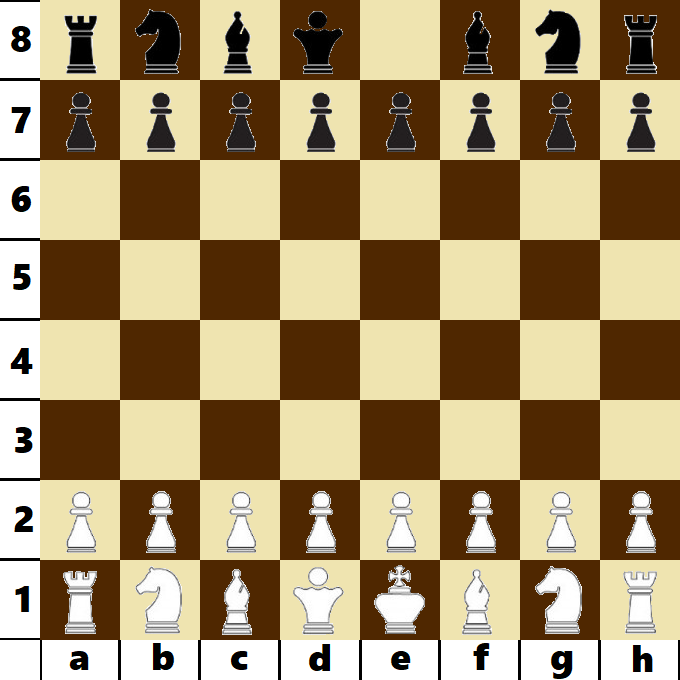
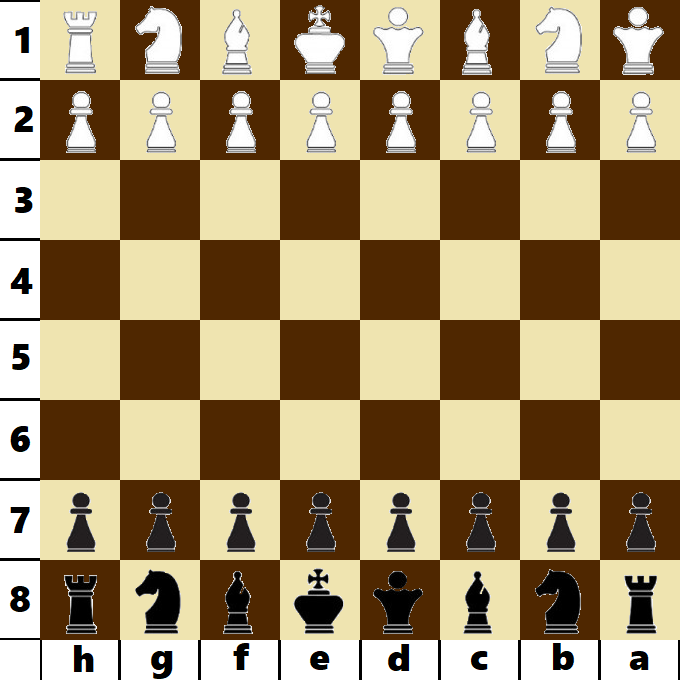
autoshow, new bugs founded

diff --git a/Vk_Bot.py b/Vk_Bot.py
@@ -112,26 +112,49 @@ class Bot:
                 print(f'text: {event.object.message["text"]}')
                 print('--------------------------------------------')
 
+    def send_field(self, user, color, message, field=False):
+        if field:
+            send = field
+        else:
+            if self.players[user].condition == NO_ENEMY:
+                send = self.players[user].edit_field.field
+            else:
+                send = self.players[user].game_field.field
+        build_field_img(send, color)
+        vk = self.session.get_api()
+        upload = vk_api.VkUpload(vk)
+        vk_image = upload.photo_messages('data/field.png')
+        owner_id = vk_image[0]['owner_id']
+        photo_id = vk_image[0]['id']
+        access_key = vk_image[0]['access_key']
+        attachment = f'photo{owner_id}_{photo_id}_{access_key}'
+        vk.messages.send(user_id=user, peer_id=user, random_id=0, attachment=attachment, message=message)
+        for i in send:
+            print(i)
+
     def end_check(self, user):
         if self.players[user].game_field.end:
             self.send_message(user, 'you\'ve won, game is finished')
             self.send_message(self.players[user].enemy, 'you\'ve lost, game is finished')
-            con = sqlite3.connect('data.db')
-            cur = con.cursor()
-            rating = [x[0] for x in cur.execute("""SELECT rating FROM top WHERE user_id = ?""", (user, ))][0]
-            cur.execute("""UPDATE top SET rating = ? WHERE user_id = ?""", (rating + 1, user))
-            self.send_message(user, f'your rating now is {rating + 1}')
-            rating = [x[0] for x in cur.execute("""SELECT rating FROM top WHERE user_id = ?""", (self.players[user].enemy, ))][0]
-            cur.execute("""UPDATE top SET rating = ? WHERE user_id = ?""",
-                        (rating - 1 if rating > 0 else 0, self.players[user].enemy))
-            self.send_message(self.players[user].enemy, f'your rating now is {rating - 1 if rating > 0 else 0}')
-            con.commit()
+            if self.players[user].bet:
+                con = sqlite3.connect('data.db')
+                cur = con.cursor()
+                rating = [x[0] for x in cur.execute("""SELECT rating FROM top WHERE user_id = ?""", (user, ))][0]
+                cur.execute("""UPDATE top SET rating = ? WHERE user_id = ?""", (rating + 1, user))
+                self.send_message(user, f'your rating now is {rating + 1}')
+                rating = [x[0] for x in cur.execute("""SELECT rating FROM top WHERE user_id = ?""", (self.players[user].enemy, ))][0]
+                cur.execute("""UPDATE top SET rating = ? WHERE user_id = ?""",
+                            (rating - 1 if rating > 0 else 0, self.players[user].enemy))
+                self.send_message(self.players[user].enemy, f'your rating now is {rating - 1 if rating > 0 else 0}')
+                con.commit()
             self.players[user].condition = NO_ENEMY
             self.players[self.players[user].enemy].condition = NO_ENEMY
-            self.players[self.players[user].enemy].enemy = None
-            self.players[user].enemy = None
             self.players[self.players[user].enemy].bet = False
             self.players[user].bet = False
+            self.players[user].game_field = None
+            self.players[self.players[user].enemy].game_field = None
+            self.players[self.players[user].enemy].enemy = None
+            self.players[user].enemy = None
             return True
         return False
 
@@ -158,7 +181,7 @@ class Bot:
         try:
             color = colors[command[3].lower()]
             self.players[user].edit_field.put_figure(figure, row, col, color)
-            self.send_message(user, 'figure put successfully')
+            self.send_field(user, self.players[user].color, 'figure put successfully')
         except Exception:
             self.send_message(user, 'wrong command arguments\ntype "/help put" for more information')
 
@@ -178,7 +201,7 @@ class Bot:
                 self.send_message(user, 'nothing to remove')
                 return
             self.players[user].edit_field.field[row][col].die()
-            self.send_message(user, 'figure removed successfully')
+            self.send_field(user, self.players[user].color, 'figure removed successfully')
         else:
             self.send_message(user, 'wrong command arguments\ntype "/help remove" for more information')
 
@@ -236,13 +259,14 @@ class Bot:
             try:
                 if int(command[2]) not in self.players:
                     self.players[int(command[2])] = Player()
-                self.send_message(int(command[2]),
-                                  f'you have been challenged by {user}\ntype "/challenge accept {user}" to accept challenge\nelse type "/challenge deny {user}"')
+                self.send_field(int(command[2]), 1 - self.players[user].color,
+                                f'you have been challenged by {user}\ntype "/challenge accept {user}" to accept challenge\nelse type "/challenge deny {user}"',
+                                self.players[user].game_field.field)
                 self.send_message(user, 'waiting for player reply...')
                 self.players[user].condition = WAITING_FOR_ACCEPT
                 self.players[user].enemy = int(command[2])
                 self.players[int(command[2])].waiting.add(user)
-            except Exception:
+            except ValueError:
                 self.send_message(user,
                                   'this user hasn\'t started dialog with bot yet or does not exist at all\ntype "/help challenge" for more information')
         elif command[1] == 'cancel':
@@ -301,27 +325,30 @@ class Bot:
         if self.players[user].condition != FIGHTING:
             self.send_message(user, 'you\'re not fighting right now')
             return
-        ###
+        self.send_message(user, 'you\'ve surrendered')
+        self.send_message(self.players[user].enemy, 'your enemy have surrendered')
+        if self.players[user].bet:
+            con = sqlite3.connect('data.db')
+            cur = con.cursor()
+            rating = [x[0] for x in cur.execute("""SELECT rating FROM top WHERE user_id = ?""", (self.players[user].enemy,))][0]
+            cur.execute("""UPDATE top SET rating = ? WHERE user_id = ?""", (rating + 1, self.players[user].enemy))
+            self.send_message(self.players[user].enemy, f'your rating now is {rating + 1}')
+            rating = [x[0] for x in cur.execute("""SELECT rating FROM top WHERE user_id = ?""", (user,))][0]
+            cur.execute("""UPDATE top SET rating = ? WHERE user_id = ?""",
+                        (rating - 1 if rating > 0 else 0, user))
+            self.send_message(user, f'your rating now is {rating - 1 if rating > 0 else 0}')
+            con.commit()
+        self.players[user].condition = NO_ENEMY
+        self.players[self.players[user].enemy].condition = NO_ENEMY
+        self.players[self.players[user].enemy].bet = False
+        self.players[user].bet = False
+        self.players[user].game_field = None
+        self.players[self.players[user].enemy].game_field = None
+        self.players[self.players[user].enemy].enemy = None
+        self.players[user].enemy = None
 
     def process_field(self, user, command):
         if len(command) == 2:
-            if command[1] == 'show':
-                if self.players[user].condition == NO_ENEMY and self.players[user].edit_field:
-                    build_field_img(self.players[user].edit_field.field, self.players[user].color)
-                elif self.players[user].condition != NO_ENEMY:
-                    build_field_img(self.players[user].game_field.field, self.players[user].color)
-                else:
-                    self.send_message(user, 'no field to show')
-                    return
-                vk = self.session.get_api()
-                upload = vk_api.VkUpload(vk)
-                vk_image = upload.photo_messages('data/field.png')
-                owner_id = vk_image[0]['owner_id']
-                photo_id = vk_image[0]['id']
-                access_key = vk_image[0]['access_key']
-                attachment = f'photo{owner_id}_{photo_id}_{access_key}'
-                vk.messages.send(user_id=user, peer_id=user, random_id=0, attachment=attachment)
-                return
             if self.players[user].condition != NO_ENEMY:
                 self.send_message(user, 'too late for any field customisation')
                 return
@@ -359,11 +386,11 @@ class Bot:
                 else:
                     if command[2] == 'empty':
                         self.players[user].edit_field = ChessField()
-                        self.send_message(user, 'field created successfully\n"/field save" to save your field')
+                        self.send_field(user, self.players[user].color, 'field created successfully\n"/field save" to save your field')
                     elif command[2] == 'basic':
                         self.players[user].edit_field = ChessField()
                         self.players[user].edit_field.build()
-                        self.send_message(user, 'field created successfully\n"/field save" to save your field')
+                        self.send_field(user, self.players[user].color, 'field created successfully\n"/field save" to save your field')
                     else:
                         self.send_message(user, 'wrong command arguments\ntype "/help field" for more information')
             elif command[1] == 'load':
@@ -372,7 +399,7 @@ class Bot:
                     cur = con.cursor()
                     field = [x[0] for x in cur.execute("""SELECT field FROM data WHERE title = ?""", (command[2],))][0]
                     self.players[user].edit_field = str_to_field(field)
-                    self.send_message(user, 'field loaded successfully')
+                    self.send_field(user, self.players[user].color, 'field loaded successfully')
                 except Exception:
                     self.send_message(user, 'field with this name doesn\'t exist')
             else:
@@ -401,13 +428,13 @@ class Bot:
             if self.players[user].game_field.add_act(row1, col1):
                 if self.players[user].game_field.transform_check(self.players[user].color):
                     self.players[user].game_field.change_step()
-                    self.send_message(user,
+                    self.send_field(user, self.players[user].color,
                                       'choose what figure to transform your pawn into with "/transform {figure_class}"')
                     return
+                self.send_field(user, self.players[user].color, 'move done successfully')
+                self.send_field(self.players[user].enemy, 1 - self.players[user].color, 'enemy move has been done')
                 if self.end_check(user):
                     return
-                self.send_message(user, 'move done successfully')
-                self.send_message(self.players[user].enemy, 'enemy move has been done')
             else:
                 self.send_message(user, 'this move can\'t be done')
         elif command[1] == 'castling':
@@ -423,8 +450,10 @@ class Bot:
                     self.players[user].game_field.acts.clear()
                     return
                 if self.players[user].game_field.add_act(row, 2):
-                    self.send_message(user, 'castling done successfully')
-                    self.send_message(self.players[user].enemy, 'enemy move has been done')
+                    self.send_field(user, self.players[user].color, 'castling done successfully')
+                    self.send_field(self.players[user].enemy, 1 - self.players[user].color, 'enemy move has been done')
+                    if self.end_check(user):
+                        return
             elif command[2] == 'short':
                 for col in (4, 6, 7):
                     self.players[user].game_field.add_act(row, col)
@@ -433,8 +462,10 @@ class Bot:
                     self.players[user].game_field.acts.clear()
                     return
                 if self.players[user].game_field.add_act(row, 5):
-                    self.send_message(user, 'castling done successfully')
-                    self.send_message(self.players[user].enemy, 'enemy move has been done')
+                    self.send_field(user, self.players[user].color, 'castling done successfully')
+                    self.send_field(self.players[user].enemy, 1 - self.players[user].color, 'enemy move has been done')
+                    if self.end_check(user):
+                        return
             else:
                 self.send_message(user, 'wrong command arguments\ntype "/help move" for more information')
         else:
@@ -462,8 +493,10 @@ class Bot:
             self.players[user].game_field.field[row][col].transform(figure)
             self.players[user].game_field.last_move.clear()
             self.players[user].game_field.change_step()
-            self.send_message(user, 'figure changed successfully')
-            self.send_message(self.players[user].enemy, 'enemy move has been done')
+            self.send_field(user, self.players[user].color, 'figure changed successfully')
+            self.send_field(self.players[user].enemy, 1 - self.players[user].color, 'enemy move has been done')
+            if self.end_check(user):
+                return
         except Exception:
             self.send_message(user, 'wrong command arguments\ntype "/help transform" for more information')
 
